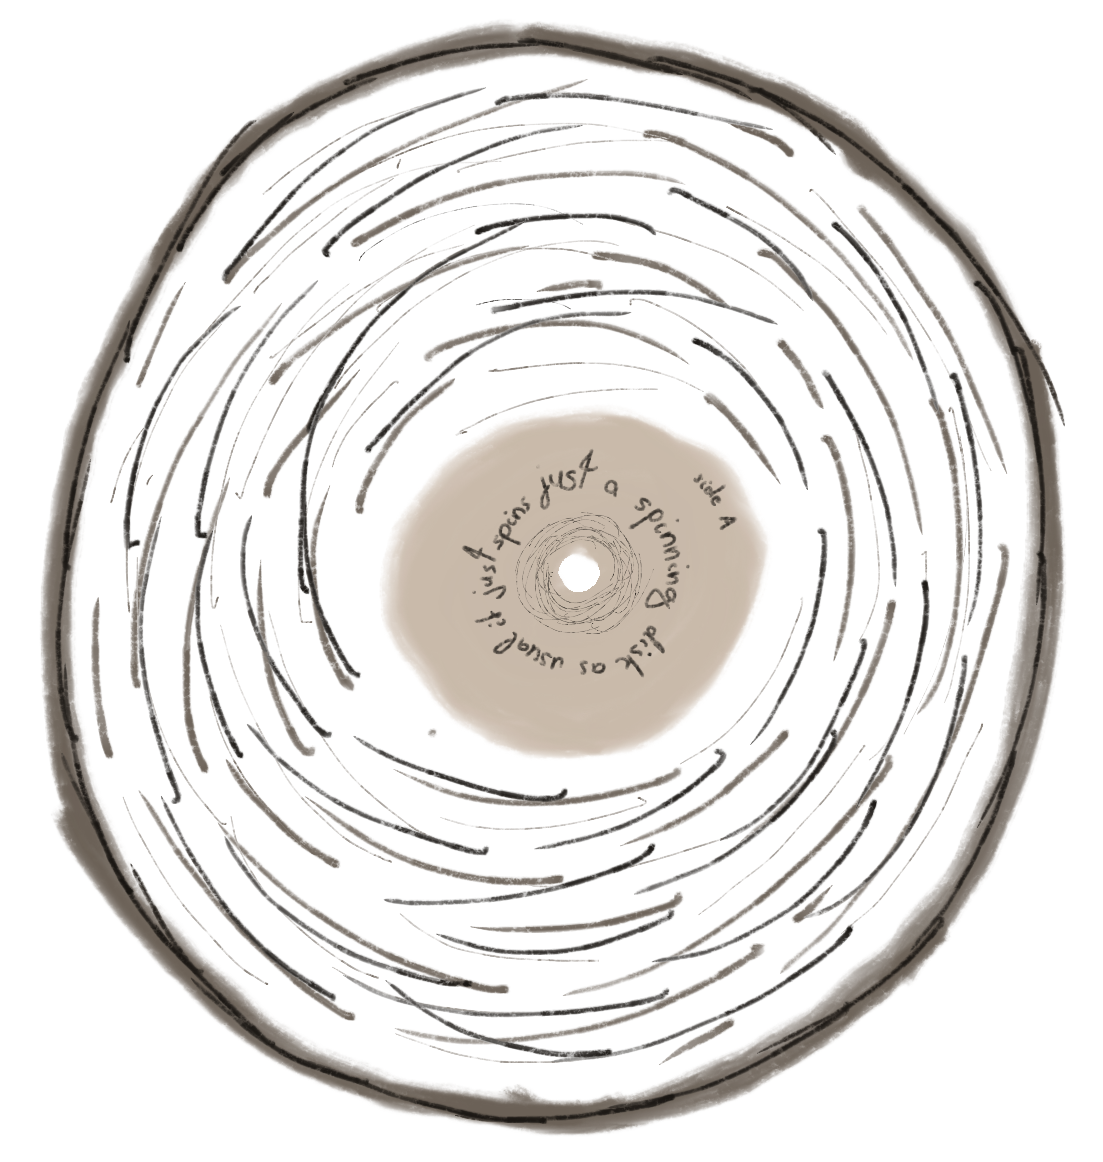
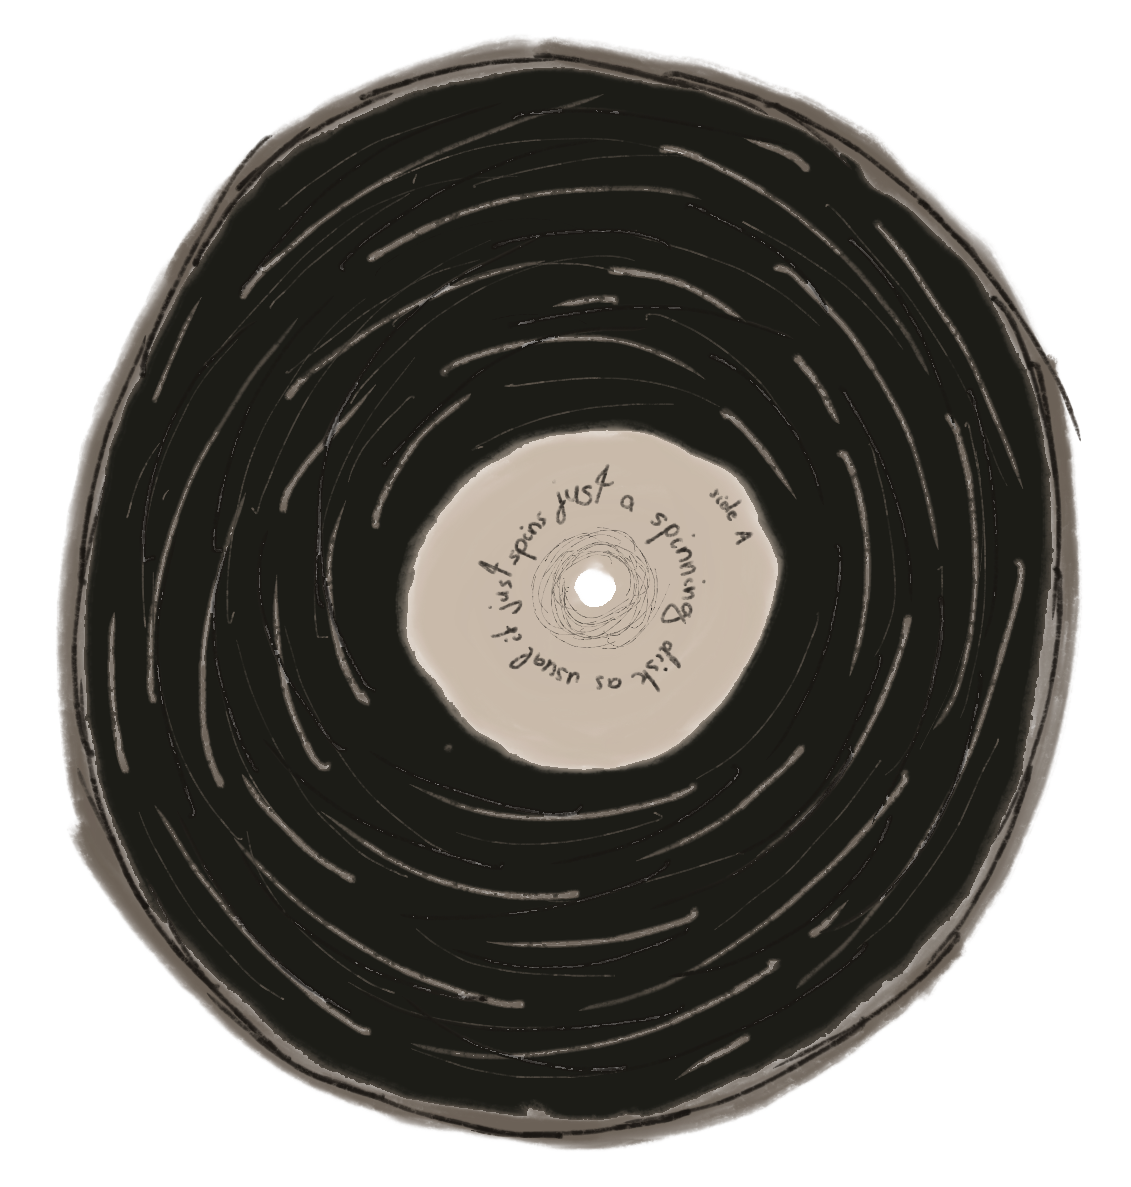
o

diff --git a/style/style.css b/style/style.css
@@ -20,7 +20,7 @@ footer {
 
 :root { 
     --cover-size: 10vmax;
-    --vinyl-size: 10vmin;
+    --vinyl-size: 11.4vmin;
     --lines-size: 3vmax;
 }
 
@@ -28,8 +28,8 @@ footer {
     position: fixed;
     width: calc(var(--vinyl-size) * 1.4);
     height: auto;
-    top: -2.3vmin;
-    right: 1.4vmin;
+    top: -2.0vmin;
+    right: 0.8vmin;
     z-index: 99999;
     pointer-events: none;
 }
@@ -69,6 +69,8 @@ footer {
 }
 
 .titulum {
+  width: 170%;
+  height: auto;
   text-align: center;
   border: none;
   position: absolute;
@@ -124,8 +126,8 @@ footer {
     width: var(--vinyl-size);
     height: var(--vinyl-size);
 
-    top: 4vmin;
-    right: 4vmin;
+    top: 5.0vmin;
+    right: 3.2vmin;
     z-index: 9999;
 }
 
